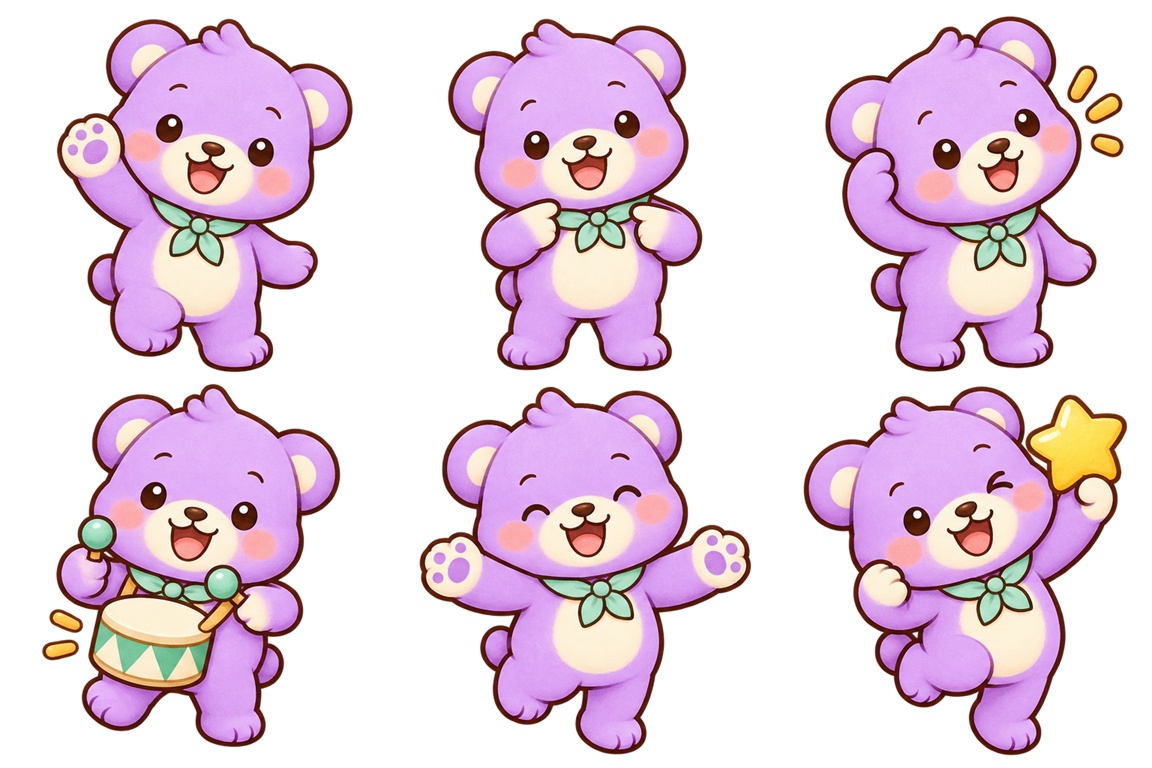
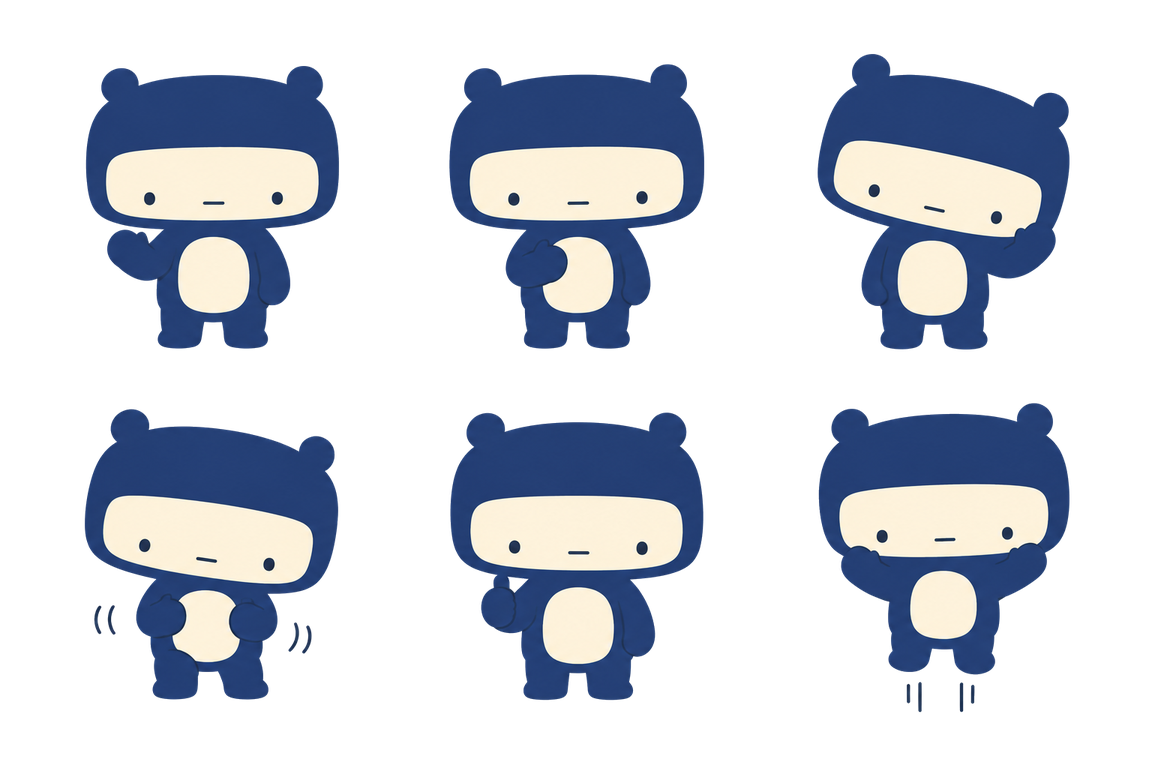
새 캐릭터(누리·민티·보보 새 디자인)와 소프트 라일락 화면 적용
- 캐릭터 동작 시트 3장을 새 디자인 투명 PNG로 교체 (tools/cutout_characters.py)
- 색: 라일락 페이지 #F4F1F7, 오늘의 단 #E5DEEE, 카드 #FFFEFA, 남색 글자 #203A78, 빨간 주요 버튼 #E84135
- 홈 오늘의 단 오른쪽에 세 친구, 게임 카드에 작은 민티·보보
- 외우기 머리·비트낭독 무대·게임 장면은 수채 배경 대신 라일락 단색 (정원·보상 창은 그대로)
- 1단 We/They 그림은 옛 단체 그림 대신 새 포즈를 겹쳐 세움
- 디자인 시안 A·B·C 바꾸기 버튼과 skins.css·skin.js 제거

권리 검토 전이라 배포하지 않는 로컬 브랜치

diff --git a/css/style.css b/css/style.css
@@ -1,20 +1,22 @@
 :root {
-  --ink: #2b2a33;
-  --quiet: #6b6873;
-  --line: #e2dccd;
-  --cream: #fdf8ec;
-  --card: #ffffff;
-  --mint: #d3e5d8;
-  --mint-deep: #3f7d63;
-  --red: #e0533f;
-  --purple: #4b3f8f;
+  /* 새 캐릭터 디자인 (characters-design-2026-11-03/DESIGN.md): 소프트 라일락 화면 · 남색 글자 · 빨간 주요 버튼 */
+  --ink: #203A78;
+  --quiet: #5A5E74;
+  --line: #DDD5E7;
+  --cream: #F4F1F7;
+  --card: #FFFEFA;
+  --mint: #E5DEEE;
+  --mint-deep: #203A78;
+  --red: #C8322A;
+  --primary: #E84135;
+  --purple: #203A78;
   --ok: #2f9e66;
   --bad: #d9534f;
   --radius: 20px;
-  --lav: #efeaf9;
-  --lav-deep: #cfc6ea;
-  --paper: #fffdf6;
-  --shadow: 0 6px 20px rgba(91, 78, 52, .08);
+  --lav: #E5DEEE;
+  --lav-deep: #CFC4DE;
+  --paper: #FFFEFA;
+  --shadow: 0 6px 20px rgba(32, 58, 120, .07);
 }
 
 * { box-sizing: border-box; }
@@ -47,9 +49,9 @@ button:disabled { cursor: default; }
 .btn { display: inline-flex; align-items: center; justify-content: center; gap: 6px; min-height: 46px;
   padding: 0 18px; border-radius: 12px; border: 1px solid var(--line); background: var(--card);
   font-weight: 600; font-size: 15px; }
-.btn.primary { background: var(--mint-deep); color: #fff; border-color: var(--mint-deep); }
+.btn.primary { background: var(--primary); color: #fff; border-color: var(--primary); font-weight: 800; }
 .btn.ghost { background: transparent; }
-.btn.beat { background: #efeaf9; border-color: #cfc6ea; color: var(--purple); }
+.btn.beat { background: var(--lav); border-color: var(--lav-deep); color: var(--purple); }
 .btn.beat.on { background: var(--purple); color: #fff; }
 .btn.disabled { opacity: .4; pointer-events: none; }
 .btn.block { width: 100%; margin-top: 16px; }
@@ -68,7 +70,7 @@ button:disabled { cursor: default; }
 .about-link .go { font-size: 20px; color: var(--purple); }
 
 /* 소개 */
-.about .hero { text-align: center; background: linear-gradient(180deg, #f1edfb, var(--card)); padding: 28px 18px; }
+.about .hero { text-align: center; background: var(--card); padding: 28px 18px; }
 .about .hero .logo { height: 44px; max-width: 100%; }
 .about .hero h2 { font-size: 30px; margin: 14px 0 4px; }
 .about .lead { font-size: 18px; margin: 0 0 18px; }
@@ -104,7 +106,7 @@ button:disabled { cursor: default; }
 .today .btn { margin-top: 16px; }
 .progress { margin-top: 14px; }
 .progress .row { display: flex; justify-content: space-between; margin-bottom: 8px; }
-.meter { height: 10px; background: #ece6d6; border-radius: 99px; overflow: hidden; }
+.meter { height: 10px; background: var(--lav); border-radius: 99px; overflow: hidden; }
 .meter i { display: block; height: 100%; background: var(--mint-deep); border-radius: 99px; transition: width .3s; }
 .menu { display: grid; grid-template-columns: 1fr 1fr; gap: 12px; margin-top: 14px; }
 .tile { background: var(--card); border: 1px solid var(--line); border-radius: var(--radius); padding: 18px; min-height: 96px;
@@ -118,7 +120,7 @@ button:disabled { cursor: default; }
 
 /* 별 */
 .stars { color: #f2b632; letter-spacing: 1px; font-size: 16px; }
-.stars .off { color: #ddd6c3; }
+.stars .off { color: #d6cee2; }
 
 /* 구구단표 카드 */
 .grid-d { display: grid; grid-template-columns: repeat(auto-fill, minmax(150px, 1fr)); gap: 10px; }
@@ -165,7 +167,7 @@ button:disabled { cursor: default; }
 .lines li.now { background: #fff5d6; border-color: #f2b632; }
 .lines li.open { background: #f1f8f3; }
 .spk { font-size: 16px; opacity: .6; }
-.mask { display: inline-block; background: #e9e2cf; border-radius: 6px; min-width: 2.2em; }
+.mask { display: inline-block; background: var(--lav-deep); border-radius: 6px; min-width: 2.2em; }
 
 /* 단어 순서 맞추기 */
 .answer { min-height: 64px; border: 2px dashed var(--line); border-radius: 14px; padding: 10px; display: flex; flex-wrap: wrap;
@@ -206,8 +208,11 @@ table.res { width: 100%; border-collapse: collapse; background: var(--card); bor
 .wronglist .quiet { font-size: 13px; margin-top: 4px; }
 
 /* 게임 */
-.tile.game { grid-column: 1 / -1; background: #efeaf9; border-color: #cfc6ea; min-height: 0; gap: 4px; }
+.tile.game { position: relative; grid-column: 1 / -1; min-height: 0; gap: 4px; padding-right: 128px; overflow: hidden; }
 .tile.game b { color: var(--purple); }
+.tile-friends { position: absolute; right: 8px; bottom: -14px; display: flex; width: 132px; }
+.tile-friends .pose { width: 60%; }
+.tile-friends .pose + .pose { margin-left: -20%; }
 .range-card { display: flex; justify-content: space-between; align-items: center; gap: 12px; }
 .range-card > div { display: flex; flex-direction: column; gap: 2px; }
 .range-card b { font-size: 20px; }
@@ -218,7 +223,7 @@ table.res { width: 100%; border-collapse: collapse; background: var(--card); bor
 .gcard b { font-size: 18px; }
 .gcard p { margin: 4px 0 6px; font-size: 14px; color: var(--quiet); line-height: 1.5; }
 .gbest { font-size: 13px; font-weight: 700; color: #b8860b; }
-.gicon { font-size: 40px; width: 64px; height: 64px; border-radius: 18px; background: #efeaf9; display: grid; place-items: center; flex: none; }
+.gicon { font-size: 40px; width: 64px; height: 64px; border-radius: 18px; background: var(--lav); display: grid; place-items: center; flex: none; }
 .ready h2 { margin: 12px 0 2px; }
 .ready .big-icon { margin: 0 auto; width: 88px; height: 88px; font-size: 54px; }
 .rules { text-align: left; max-width: 460px; margin: 16px auto 20px; padding-left: 20px; line-height: 1.8; }
@@ -265,7 +270,7 @@ table.res { width: 100%; border-collapse: collapse; background: var(--card); bor
 .pcard .pface { display: none; }
 .pcard .pface small { display: block; font-size: 11px; color: var(--quiet); font-weight: 700; margin-bottom: 4px; }
 .pcard .pback { font-size: 30px; font-weight: 800; color: #fff; }
-.pcard:not(.up) { background: linear-gradient(135deg, #6f60c4, var(--purple)); border-color: var(--purple); }
+.pcard:not(.up) { background: var(--purple); border-color: var(--purple); }
 .pcard.up .pface { display: block; }
 .pcard.up .pback { display: none; }
 .pcard.up { animation: flip .2s ease-out; }
@@ -352,13 +357,16 @@ p.cheer { margin: 12px 0 0; }
 /* 홈: 오늘의 단 */
 .today { position: relative; overflow: hidden; display: flex; align-items: flex-end; gap: 12px; padding: 18px;
   background: var(--mint); border-color: transparent; min-height: 250px; }
-.today-bg { position: absolute; inset: 0; background-size: cover; background-position: center 62%; opacity: .55; }
 .today-text { position: relative; z-index: 1; flex: 1 1 auto; max-width: 440px; background: var(--paper); border-radius: 18px;
   padding: 16px 18px; box-shadow: var(--shadow); }
 .today-no { margin-top: 2px; }
-.today-hero { position: relative; z-index: 1; flex: none; width: clamp(162px, 21.6vw, 207px); margin: 0 4px -6px auto; }
-.today-hero img { display: block; width: 100%; height: auto; aspect-ratio: 532 / 599; }
-.bubble { position: absolute; top: -2px; left: -26px; background: #fff; border: 2px solid var(--lav-deep); border-radius: 16px;
+.today-hero { position: relative; z-index: 1; flex: none; width: clamp(260px, 36vw, 380px); margin: 0 0 -10px auto; }
+/* 포즈 칸은 좌우 여백이 넓어 서로 겹쳐 세운다. 가운데 누리가 앞 */
+.friends { display: flex; align-items: flex-end; justify-content: center; }
+.friends .pose { width: 50%; }
+.friends .pose + .pose { margin-left: -24%; }
+.friends .pose:nth-child(2) { position: relative; z-index: 1; width: 54%; }
+.bubble { position: absolute; z-index: 2; top: 0; left: 2px; background: #fff; border: 2px solid var(--lav-deep); border-radius: 16px;
   padding: 6px 12px; font-size: 14px; font-weight: 800; color: var(--purple); white-space: nowrap; box-shadow: var(--shadow); }
 .bubble::after { content: ""; position: absolute; right: 18px; bottom: -9px; width: 14px; height: 14px; background: #fff;
   border-right: 2px solid var(--lav-deep); border-bottom: 2px solid var(--lav-deep); transform: rotate(45deg); }
@@ -372,7 +380,7 @@ p.cheer { margin: 12px 0 0; }
 
 /* 외우기 머리: 장소 배경 + 친구 */
 .scene-head { position: relative; display: flex; align-items: flex-end; justify-content: space-between; gap: 8px; min-height: 124px;
-  padding: 12px; border-radius: var(--radius); background-size: cover; background-position: center 70%; overflow: hidden; }
+  padding: 12px; border-radius: var(--radius); background: var(--lav); overflow: hidden; }
 .danhead-card { display: flex; align-items: center; gap: 18px; background: var(--paper); border-radius: 16px; padding: 12px 16px;
   box-shadow: var(--shadow); min-width: 0; }
 .head-char { width: 124px; margin: -10px -2px -16px 0; }
@@ -381,13 +389,17 @@ p.cheer { margin: 12px 0 0; }
 .who-grid { display: grid; grid-template-columns: repeat(3, 1fr); gap: 10px; }
 .who { display: flex; flex-direction: column; align-items: center; justify-content: space-between; gap: 8px; padding: 12px; text-align: center; }
 .who .pose { width: min(100%, 132px); }
-.who .group-img { width: 100%; height: auto; aspect-ratio: 3 / 2; object-fit: contain; }
+.who .group { display: flex; justify-content: center; align-items: flex-end; width: 100%; }
+.who .group .pose { width: 58%; }
+.who .group .pose + .pose { margin-left: -21%; }
+.who .group.n2 .pose { width: 70%; }
+.who .group.n2 .pose + .pose { margin-left: -40%; }
 .who span { font-size: 13px; color: var(--quiet); }
 .who b { display: block; font-size: 20px; color: var(--ink); }
 
 /* 비트낭독 무대 */
 .stage { position: relative; display: flex; flex-direction: column; justify-content: flex-end; aspect-ratio: 5 / 2; margin: 0 0 14px;
-  border-radius: var(--radius); background-size: cover; background-position: center 78%; overflow: hidden; }
+  border-radius: var(--radius); background: var(--lav); overflow: hidden; }
 .band { display: flex; justify-content: center; gap: 2%; padding: 0 8%; }
 .band .pose { width: min(24%, 180px); }
 .stage-bar { display: flex; align-items: center; justify-content: space-between; gap: 8px; margin: 6px 10px 10px; padding: 6px 6px 6px 14px;
@@ -406,14 +418,14 @@ p.cheer { margin: 12px 0 0; }
 
 /* 게임: 놀이터 */
 .play-hero { position: relative; display: flex; align-items: flex-end; gap: 4px; min-height: 124px; padding: 12px; margin-bottom: 12px;
-  border-radius: var(--radius); background-size: cover; background-position: center 70%; overflow: hidden; }
+  border-radius: var(--radius); background: var(--lav); overflow: hidden; }
 .play-hero-card { display: flex; flex-direction: column; gap: 2px; margin-right: auto; max-width: 64%; background: var(--paper);
   border-radius: 16px; padding: 10px 14px; box-shadow: var(--shadow); }
 .play-hero-card b { font-size: 17px; color: var(--purple); }
 .play-hero-card span { font-size: 13px; color: var(--quiet); }
 .ph-char { width: 100px; margin-bottom: -14px; }
 .ready-scene { position: relative; display: flex; align-items: flex-end; justify-content: center; gap: 14px; height: 130px;
-  margin: -4px -4px 0; border-radius: 16px; background-size: cover; background-position: center 70%; overflow: hidden; }
+  margin: -4px -4px 0; border-radius: 16px; background: var(--lav); overflow: hidden; }
 .ready-scene .big-icon { margin: 0 0 14px; background: var(--paper); box-shadow: var(--shadow); }
 .ready-char { width: 120px; margin-bottom: -10px; }
 .score-char { display: block; width: 120px; margin: 0 auto 4px; }
@@ -449,9 +461,12 @@ p.cheer { margin: 12px 0 0; }
   .today-text { padding: 14px; }
   .today-no { font-size: 34px; }
   .today-line { font-size: 19px; }
-  .today-hero { width: 101px; margin: 0 -2px -14px 0; }
-  .bubble { top: -34px; left: auto; right: 0; font-size: 13px; padding: 5px 10px; }
-  .bubble::after { right: 40px; }
+  .today { flex-direction: column; align-items: stretch; }
+  .today-hero { order: -1; width: 230px; margin: -6px -8px -14px auto; }
+  .today-text { max-width: none; }
+  .bubble { top: 18px; left: -84px; font-size: 13px; padding: 5px 10px; }
+  .tile.game { padding-right: 104px; }
+  .tile-friends { width: 104px; right: 2px; }
   .scene-head { min-height: 104px; padding: 10px; }
   .danhead-card { gap: 10px; padding: 10px 12px; }
   .danhead-card .big { font-size: 24px; }

diff --git a/js/app.js b/js/app.js
@@ -6,10 +6,12 @@ import { buildQuiz, findBlank, tokens, splitPunct, shuffle } from "./quiz.js";
 import { $app, esc, hl, danLabel, starsHtml, isLocked, toast, header, runLeave } from "./ui.js";
 import { Games, Mole, Roulette, Pairs } from "./games.js";
 import { Blocks, Bingo, Duel } from "./games-more.js";
-import { pose, setPose, bg, groupImg, deco, rewardFor, earnedCount, showReward, Garden } from "./village.js";
-import { mountSkinSwitch } from "./skin.js";
+import { pose, setPose, bg, deco, rewardFor, earnedCount, showReward, Garden } from "./village.js";
 
 // ───────────────────────── 홈 ─────────────────────────
+// 게임 카드 오른쪽의 작은 민티 · 보보
+const TILE_FRIENDS = `<span class="tile-friends">${pose("minty", "welcome")}${pose("bobo", "welcome")}</span>`;
+
 function Home() {
   const today = MAIN_DANS.find((d) => !store.passed(d.id)) || MAIN_DANS[0];
   const passed = store.passedCount();
@@ -20,7 +22,6 @@ function Home() {
     <section class="home">
       <a class="brand" href="#/about"><img class="logo" src="img/sogenius-logo.png" alt="소지니어스 시즌드잉글리시"><h1>신나는 영어구구단</h1></a>
       <a class="today card" href="#/dan/${today.id}">
-        <span class="today-bg" style="${bg("village")}" aria-hidden="true"></span>
         <div class="today-text">
           <div class="today-head"><span class="kicker">오늘의 단</span>${starsHtml(today.id)}</div>
           <div class="today-no">${danLabel(today)}</div>
@@ -30,7 +31,7 @@ function Home() {
         </div>
         <div class="today-hero" aria-hidden="true">
           <span class="bubble">같이 해볼까?</span>
-          <img src="img/village/nuri-hero.png" width="532" height="599" alt="">
+          <div class="friends">${pose("minty", "welcome")}${pose("nuri", "welcome")}${pose("bobo", "welcome")}</div>
         </div>
       </a>
       <div class="progress card">
@@ -43,8 +44,8 @@ function Home() {
         <span class="go" aria-hidden="true">→</span>
       </a>
       <nav class="menu">
-        <a class="tile game" href="#/games"><b>🎮 게임 (구구단형)</b><span>두더지 · 룰렛 · 짝꿍 카드 · 블록 쌓기 · 빙고 · 1:1 대결</span></a>
-        <a class="tile game" href="#/games?ids=S1,S2,S3"><b>🎮 게임 (문장형)</b><span>1–3단을 완성된 문장으로 · I am David. · She is sad.</span></a>
+        <a class="tile game" href="#/games"><b>🎮 게임 (구구단형)</b><span>두더지 · 룰렛 · 짝꿍 카드 · 블록 쌓기 · 빙고 · 1:1 대결</span>${TILE_FRIENDS}</a>
+        <a class="tile game" href="#/games?ids=S1,S2,S3"><b>🎮 게임 (문장형)</b><span>1–3단을 완성된 문장으로 · I am David. · She is sad.</span>${TILE_FRIENDS}</a>
         <a class="tile" href="#/table"><b>구구단표</b><span>36단 한눈에 보기</span></a>
         <a class="tile" href="#/pick"><b>범위 고르고 연습</b><span>1단 · 묶음 · 10단 · 전체</span></a>
         <a class="tile" href="#/pick?mode=quiz"><b>시험 보기</b><span>빈칸 · 순서 · 듣기</span></a>
@@ -223,7 +224,7 @@ function Dan(id, params) {
 
   $app.innerHTML = `${header(`${danLabel(d)} 외우기`, "#/table")}
     <section class="page">
-      <div class="danhead scene-head" style="${bg(/ice cream/i.test(d.theme?.en || "") ? "icecream" : "school")}">
+      <div class="danhead scene-head">
         <div class="danhead-card"><div><div class="big">${danLabel(d)}</div><div class="quiet">${esc(d.meaning)}</div></div>${starsHtml(d.id)}</div>
         ${pose(STEP_CHAR[step][0], STEP_CHAR[step][1], { cls: "head-char" })}
       </div>
@@ -241,20 +242,23 @@ function Dan(id, params) {
 const STEP_CHAR = { see: ["nuri", "listen"], hide: ["minty", "encourage"], order: ["bobo", "welcome"] };
 const headChar = () => $app.querySelector(".head-char");
 
-// 비트낭독 무대: 선생님 원음이 실제로 재생되는 동안만 .playing (박자 정보는 없어 가벼운 반복 움직임만)
-const STAGE = `<div class="stage" style="${bg("stage")}">
-    <div class="band">${pose("nuri", "rhythm", { label: "마이크를 든 누리" })}${pose("minty", "rhythm", { label: "탬버린을 든 민티" })}${pose("bobo", "rhythm", { label: "북을 치는 보보" })}</div>
+// 비트낭독 무대 (라일락 단색): 선생님 원음이 실제로 재생되는 동안만 .playing (박자 정보는 없어 가벼운 반복 움직임만)
+const STAGE = `<div class="stage">
+    <div class="band">${pose("nuri", "rhythm", { label: "리듬을 타는 누리" })}${pose("minty", "rhythm", { label: "발끝으로 통통 뛰는 민티" })}${pose("bobo", "rhythm", { label: "무릎을 굽히며 박자 맞추는 보보" })}</div>
     <div class="stage-bar"><span class="stage-note" id="stage-note">선생님 원음을 준비하고 있어요</span><button class="btn ghost" id="beatstop">■ 그만</button></div>
   </div>`;
 
 // 1단 주어 그림: I는 누리 자신, We는 누리를 포함한 셋, They는 누리가 가리키는 두 친구
+// 여러 친구를 한 칸에 겹쳐 세운다 (예전 group-we/they 그림은 옛 캐릭터라 쓰지 않는다)
+const group = (poses, label) => `<span class="group n${poses.length}" role="img" aria-label="${esc(label)}">${poses.join("")}</span>`;
+
 function whoPanel(lines) {
   const fig = (i, img, title, desc) => `<button class="who card" data-i="${i}">${img}<span><b>${title}</b>${desc}</span></button>`;
   return `<h3 class="sec">누가 누구일까요? <span class="quiet">그림을 누르면 들려줘요</span></h3>
     <div class="who-grid">
       ${fig(0, pose("nuri", "self", { label: "자기 자신을 가리키는 누리" }), esc(lines[0]), "말하는 나, 누리")}
-      ${fig(2, groupImg("we", "누리, 민티, 보보가 아이스크림을 들고 함께 있는 모습"), esc(lines[2]), "누리를 포함한 우리 셋")}
-      ${fig(3, groupImg("they", "누리가 떨어져 있는 민티와 보보를 가리키는 모습"), esc(lines[3]), "누리가 가리키는 저 두 친구")}
+      ${fig(2, group([pose("nuri", "self"), pose("minty", "welcome"), pose("bobo", "welcome")], "누리, 민티, 보보가 함께 있는 모습"), esc(lines[2]), "누리를 포함한 우리 셋")}
+      ${fig(3, group([pose("minty", "welcome"), pose("bobo", "welcome")], "저쪽에 함께 서 있는 민티와 보보"), esc(lines[3]), "누리가 가리키는 저 두 친구")}
     </div>`;
 }
 
@@ -537,5 +541,4 @@ function route() {
 }
 
 window.addEventListener("hashchange", route);
-mountSkinSwitch();
 route();

diff --git a/js/games.js b/js/games.js
@@ -5,7 +5,7 @@ import { store } from "./store.js";
 import { speak, stop } from "./speech.js";
 import { pool, blankQ, shuffle } from "./quiz.js";
 import { $app, esc, hl, danLabel, isLocked, header, rangeLabel, onLeave } from "./ui.js";
-import { pose, bg } from "./village.js";
+import { pose } from "./village.js";
 
 // 게임마다 함께하는 친구 (준비·결과 화면에만. 게임 중에는 문제와 버튼을 가리지 않게 넣지 않는다)
 const HOST = { "단어 두더지": "nuri", "주어 룰렛": "minty", "짝꿍 카드": "bobo",
@@ -76,7 +76,7 @@ export function Games(params) {
   };
   $app.innerHTML = `${header(sent ? "게임 (문장형)" : "게임 (구구단형)")}
     <section class="page">
-      <div class="play-hero" style="${bg("playground")}">
+      <div class="play-hero">
         <div class="play-hero-card"><b>놀이터에서 영어 게임!</b><span>틀려도 괜찮아요. 친구들과 다시 도전해요</span></div>
         ${pose("minty", "welcome", { cls: "ph-char" })}${pose("bobo", "welcome", { cls: "ph-char" })}
       </div>
@@ -100,7 +100,7 @@ export function ready(title, ids, icon, rules, start, extra = "") {
   $app.innerHTML = `${header(title, hub(ids))}
     <section class="page">
       <div class="card center ready">
-        <div class="ready-scene" style="${bg("playground")}"><span class="gicon big-icon">${icon}</span>${pose(HOST[title] || "nuri", "welcome", { cls: "ready-char" })}</div>
+        <div class="ready-scene"><span class="gicon big-icon">${icon}</span>${pose(HOST[title] || "nuri", "welcome", { cls: "ready-char" })}</div>
         <h2>${title}</h2>
         <p class="quiet">범위: ${esc(rangeLabel(ids))}</p>
         <ul class="rules">${rules.map((r) => `<li>${r}</li>`).join("")}</ul>

diff --git a/index.html b/index.html
@@ -3,22 +3,12 @@
 <head>
   <meta charset="utf-8">
   <meta name="viewport" content="width=device-width, initial-scale=1, viewport-fit=cover">
-  <meta name="theme-color" content="#d3e5d8">
+  <meta name="theme-color" content="#F4F1F7">
   <title>신나는 영어구구단</title>
   <link rel="preconnect" href="https://fonts.googleapis.com">
   <link rel="preconnect" href="https://fonts.gstatic.com" crossorigin>
   <link href="https://fonts.googleapis.com/css2?family=Noto+Sans+KR:wght@400;600;800&display=swap" rel="stylesheet">
-  <link rel="stylesheet" href="https://cdn.jsdelivr.net/gh/orioncactus/pretendard@v1.3.9/dist/web/variable/pretendardvariable-dynamic-subset.min.css">
   <link rel="stylesheet" href="css/style.css">
-  <link rel="stylesheet" href="css/skins.css">
-  <script>
-    // 디자인 시안: ?skin=a|b|c 가 있으면 그것, 아니면 이 기기에 기억한 시안, 처음이면 A (자세한 건 js/skin.js)
-    (function () {
-      var q = (location.search.match(/[?&]skin=([abc])/i) || [])[1], s = null;
-      try { s = localStorage.getItem("gugudan.skin"); } catch (e) {}
-      document.documentElement.dataset.skin = (q || s || "a").toLowerCase();
-    })();
-  </script>
 </head>
 <body>
   <main id="app" aria-live="polite"></main>

diff --git a/js/village.js b/js/village.js
@@ -9,9 +9,9 @@ const IMG = "img/village/";
 
 // ── 캐릭터 (manifest.characters) ─────────────────────────
 export const CHARS = {
-  nuri: { name: "누리", desc: "노란 강아지" },
-  minty: { name: "민티", desc: "민트 토끼" },
-  bobo: { name: "보보", desc: "보라 곰" },
+  nuri: { name: "누리", desc: "빨간 강아지" },
+  minty: { name: "민티", desc: "하늘색 토끼" },
+  bobo: { name: "보보", desc: "남색 곰" },
 };
 const POSE_SHEET = { w: 1536, h: 1024 };
 const POSES = {
@@ -54,8 +54,6 @@ const BACKGROUNDS = {
   garden: "background-reward-garden.jpg",
 };
 export const bg = (k) => `background-image:url(${IMG}${BACKGROUNDS[k]})`;
-export const groupImg = (k, alt) =>
-  `<img class="group-img" src="${IMG}group-${k}.png" width="960" height="640" alt="${esc(alt)}" loading="lazy">`;
 
 // ── 보상 장식 (manifest.rewards, 4열×3행) ─────────────────────────
 const DECO_SHEET = { w: 1448, h: 1086 };
